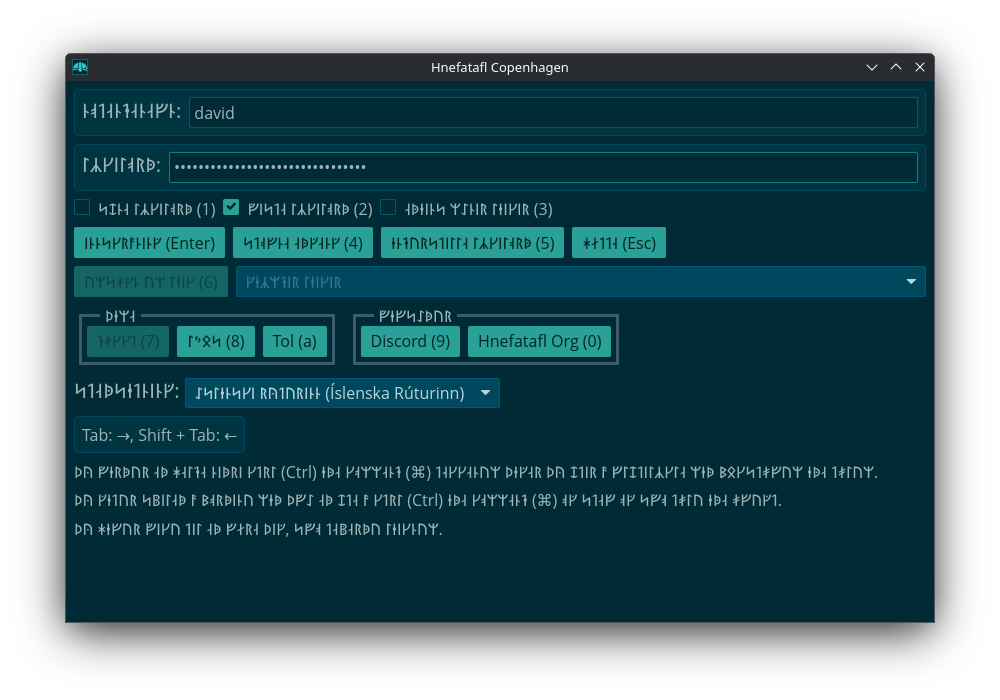
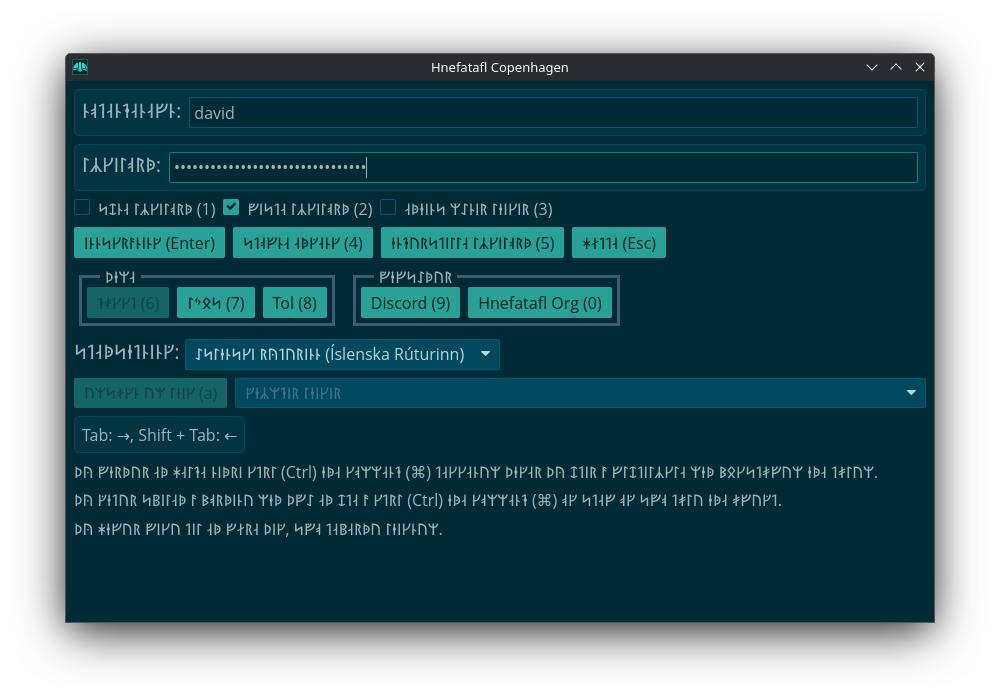
Update the login screen!

Changed region(s): [[0.062, 0.36, 0.93, 0.6]]

diff --git a/src/bin/hnefatafl-client/main.rs b/src/bin/hnefatafl-client/main.rs
@@ -2332,7 +2332,7 @@ impl<'a> Client {
                 Screen::Games if self.active_tab == TabId::GameNew => {
                     self.game_settings.time = Some(TimeEnum::Rapid);
                 }
-                Screen::Login => self.change_theme(Theme::Tol),
+                Screen::Login => self.review_game(),
                 Screen::EmailEveryone | Screen::Games => {}
             },
             Message::PressB(shift) => match self.screen {
@@ -2626,7 +2626,7 @@ impl<'a> Client {
                     TabId::Tournament => open_url("https://hnefatafl.org/tournaments.html"),
                     TabId::Users => {}
                 },
-                Screen::Login => self.review_game(),
+                Screen::Login => self.change_theme(Theme::Dark),
                 Screen::Game | Screen::GameReview => {
                     if self.screen == Screen::Game || self.screen == Screen::GameReview {
                         self.clear_numbers_except(6);
@@ -2648,7 +2648,7 @@ impl<'a> Client {
                     TabId::Users => {}
                 },
                 // Fixme: Screen::GameNew => self.game_settings.time = Some(TimeEnum::Long),
-                Screen::Login => self.change_theme(Theme::Dark),
+                Screen::Login => self.change_theme(Theme::Light),
                 Screen::Game | Screen::GameReview => {
                     self.clear_numbers_except(7);
                     self.press_numbers[6] = !self.press_numbers[6];
@@ -2665,7 +2665,7 @@ impl<'a> Client {
                     TabId::Users => {}
                 },
                 // Fixme: Screen::GameNew => self.game_settings.time = Some(TimeEnum::VeryLong),
-                Screen::Login => self.change_theme(Theme::Light),
+                Screen::Login => self.change_theme(Theme::Tol),
                 Screen::Game | Screen::GameReview => {
                     self.clear_numbers_except(8);
                     self.press_numbers[7] = !self.press_numbers[7];
@@ -4104,7 +4104,7 @@ impl<'a> Client {
                     error_persistent = error_persistent.push(text(error).style(text::danger));
                 }
 
-                let mut review_game = button(text!("{} (6)", self.strings["Review Game"].as_str()));
+                let mut review_game = button(text!("{} (a)", self.strings["Review Game"].as_str()));
                 if self.archived_game_selected.is_some() {
                     review_game = review_game.on_press(Message::ReviewGame);
                 }
@@ -4156,27 +4156,27 @@ impl<'a> Client {
 
                 let theme = if self.theme == Theme::Light {
                     row![
-                        button(text!("{} (7)", self.strings["Dark"].as_str()))
+                        button(text!("{} (6)", self.strings["Dark"].as_str()))
                             .on_press(Message::ChangeTheme(Theme::Dark)),
-                        button(text!("{} (8)", self.strings["Light"].as_str())),
-                        button(text("Tol (a)")).on_press(Message::ChangeTheme(Theme::Tol)),
+                        button(text!("{} (7)", self.strings["Light"].as_str())),
+                        button(text("Tol (8)")).on_press(Message::ChangeTheme(Theme::Tol)),
                     ]
                     .spacing(SPACING)
                 } else if self.theme == Theme::Dark {
                     row![
-                        button(text!("{} (7)", self.strings["Dark"].as_str())),
-                        button(text!("{} (8)", self.strings["Light"].as_str()))
+                        button(text!("{} (6)", self.strings["Dark"].as_str())),
+                        button(text!("{} (7)", self.strings["Light"].as_str()))
                             .on_press(Message::ChangeTheme(Theme::Light)),
-                        button(text("Tol (a)")).on_press(Message::ChangeTheme(Theme::Tol)),
+                        button(text("Tol (8)")).on_press(Message::ChangeTheme(Theme::Tol)),
                     ]
                     .spacing(SPACING)
                 } else {
                     row![
-                        button(text!("{} (7)", self.strings["Dark"].as_str()))
+                        button(text!("{} (6)", self.strings["Dark"].as_str()))
                             .on_press(Message::ChangeTheme(Theme::Dark)),
-                        button(text!("{} (8)", self.strings["Light"].as_str()))
+                        button(text!("{} (7)", self.strings["Light"].as_str()))
                             .on_press(Message::ChangeTheme(Theme::Light)),
-                        button(text("Tol (a)")),
+                        button(text("Tol (8)")),
                     ]
                     .spacing(SPACING)
                 };
@@ -4222,9 +4222,9 @@ impl<'a> Client {
                     ]
                     .spacing(SPACING),
                     buttons_1,
-                    review_game_pick,
                     row![theme, websites].spacing(SPACING),
                     locale,
+                    review_game_pick,
                     help_text,
                     help_text_2,
                     help_text_3,
